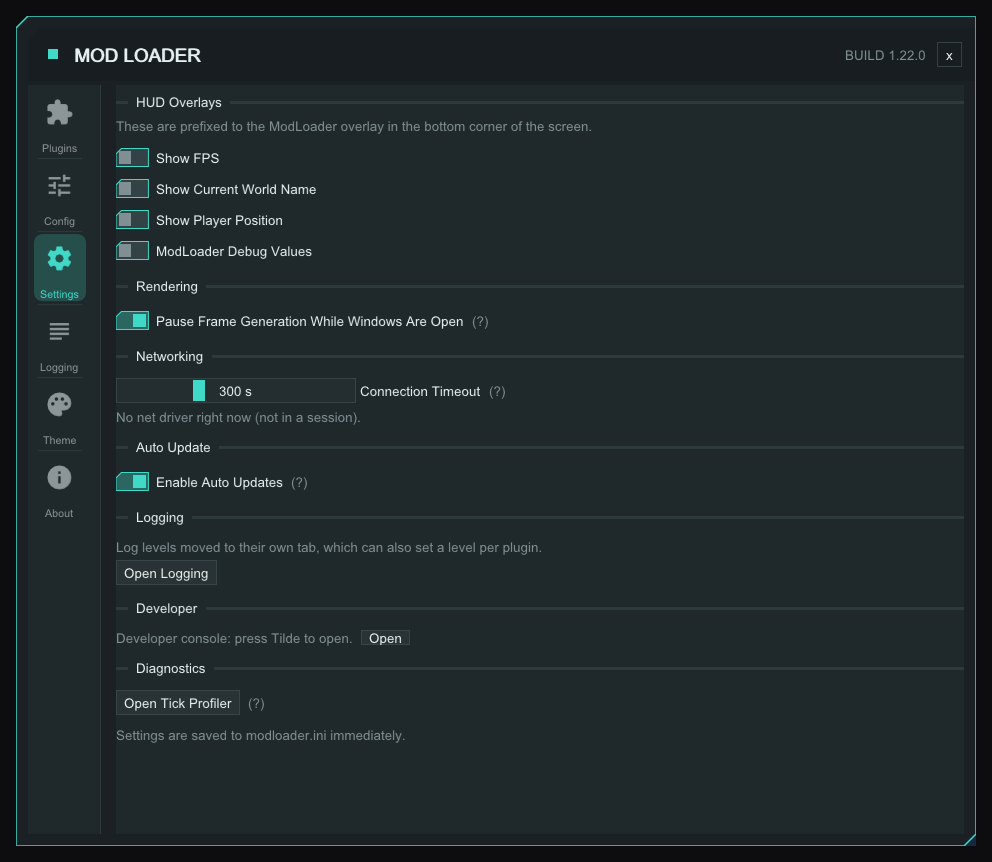
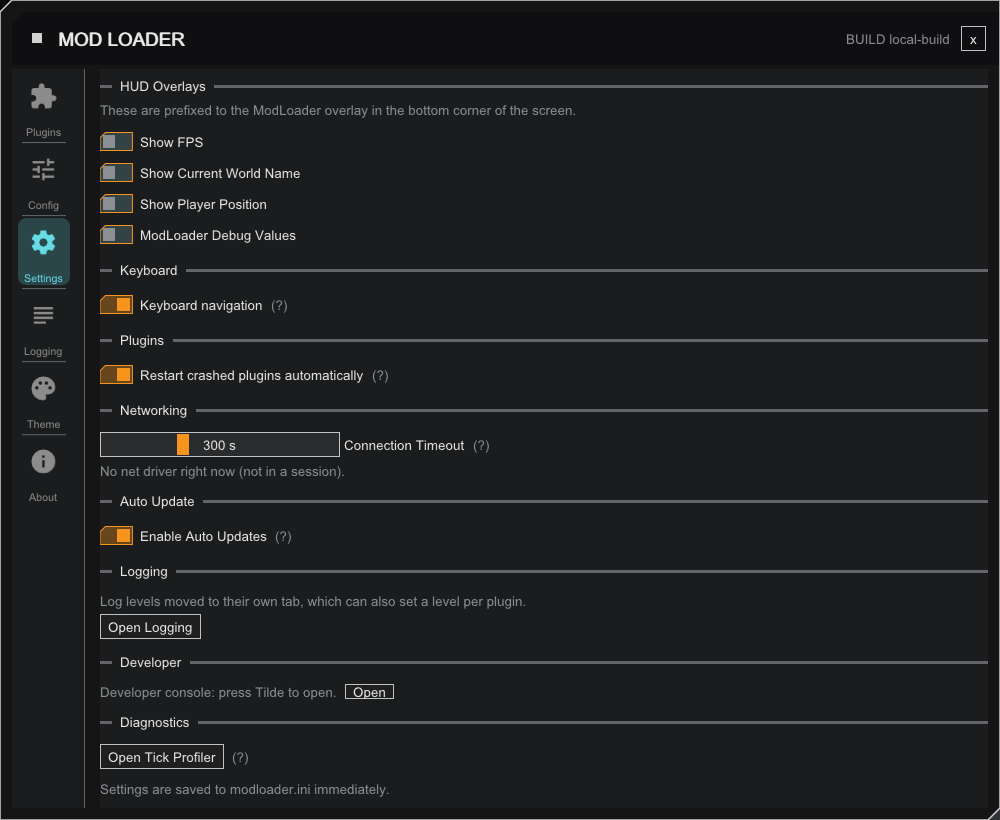
Describe the per-feature layout check, retake settings tab
A game update that changes a layout the loader checks now switches
off only the features that read it. Note it in the README and the
update notes, and replace the settings screenshot, which still showed
the removed Pause Frame Generation toggle.

Changed region(s): [[0.0, 0.0, 1.0, 1.0]]

diff --git a/README.md b/README.md
@@ -458,7 +458,7 @@ the whole API and you can hot-reload it while the game runs.
 | Preload plugin not running | Run `preload` in the console, or check the `[Preload]` lines in the log. A preload plugin that fails is skipped and the game starts without it. |
 | Game will not start after adding a preload plugin | Launch with `-NoPreload`, or set `Enabled=0` under `[Preload]` in `modloader.ini`. The loader also skips any preload plugin that did not finish loading last launch, and says which it was. Delete `Preload\.state` to let it try again. |
 | A dialog offers "Start Game Without ModLoader" | The game build changed or a scan pattern no longer matches. The mod loader stays off until it is updated. **Copy Details** has the report. `-SkipPatternValidation` overrides an ambiguous or wrong-kind pattern, not a missing one. |
-| A dialog says the game has changed in a way that would break your plugins | At startup the mod loader checks that the game classes it and its plugins read are still laid out the way it was built for. A game update moved some of them, so no plugins load this session: start the game without them, or quit until an update is out. The loader writes `ModLoader\compat-report-<CL>.json` (the game build, the executable's SHA-256 and what moved). It is what a loader update is made from, so attach it to your report. |
+| A dialog says the game has changed in a way that would break your plugins | At startup the mod loader checks that the game classes it and its plugins read are still laid out the way it was built for. A game update moved some of them. When what moved is read by only some loader features, only those features turn off; when it is read by every plugin, no plugins load this session: start the game without them, or quit until an update is out. The loader writes `ModLoader\compat-report-<CL>.json` (the game build, the executable's SHA-256 and what moved). It is what a loader update is made from, so attach it to your report. |
 | A plugin says "Needs an update to run on CL-..." | The plugin was built for another game build and does not declare that it takes its game data from the version map, so it would read this game's data where its own build had it. It loads on the build it names. Ask its author for an update. See [Game updates](#game-updates) and [VersionMap.md](VersionMap.md). |
 | Logs / diagnostics | Check `ModLoader\Logs\ModLoader.log`. Raise the detail in the **Logging** tab, or set `Level=DEBUG` under `[Logging]` in `ModLoader\modloader.ini`. |
 | One plugin is flooding the log | See [Log Levels](#log-levels) — turn that plugin down on its own, or use `-PluginLogLevel=` if it happens during startup. |
@@ -485,6 +485,9 @@ On a client build with `[AutoUpdate] Enabled` on, the loader can also fetch a ne
 file, so a new game build can be supported without a loader update. A server build never does.
 How the map is chosen, how the feed is fetched, signed and cached, how CI publishes it and what
 each failure looks like is in [VersionMap.md](VersionMap.md).
+
+At startup the loader also checks that the game classes it reads are laid out as it was built for. If a
+game update changes a layout, only the features that read it are switched off, not every plugin.
 
 When the map's row decides where a plugin's function is, the loader still checks the plugin's own
 AOB pattern against the running exe, once, and logs a warning if it matches 0 or 2 or more places.
